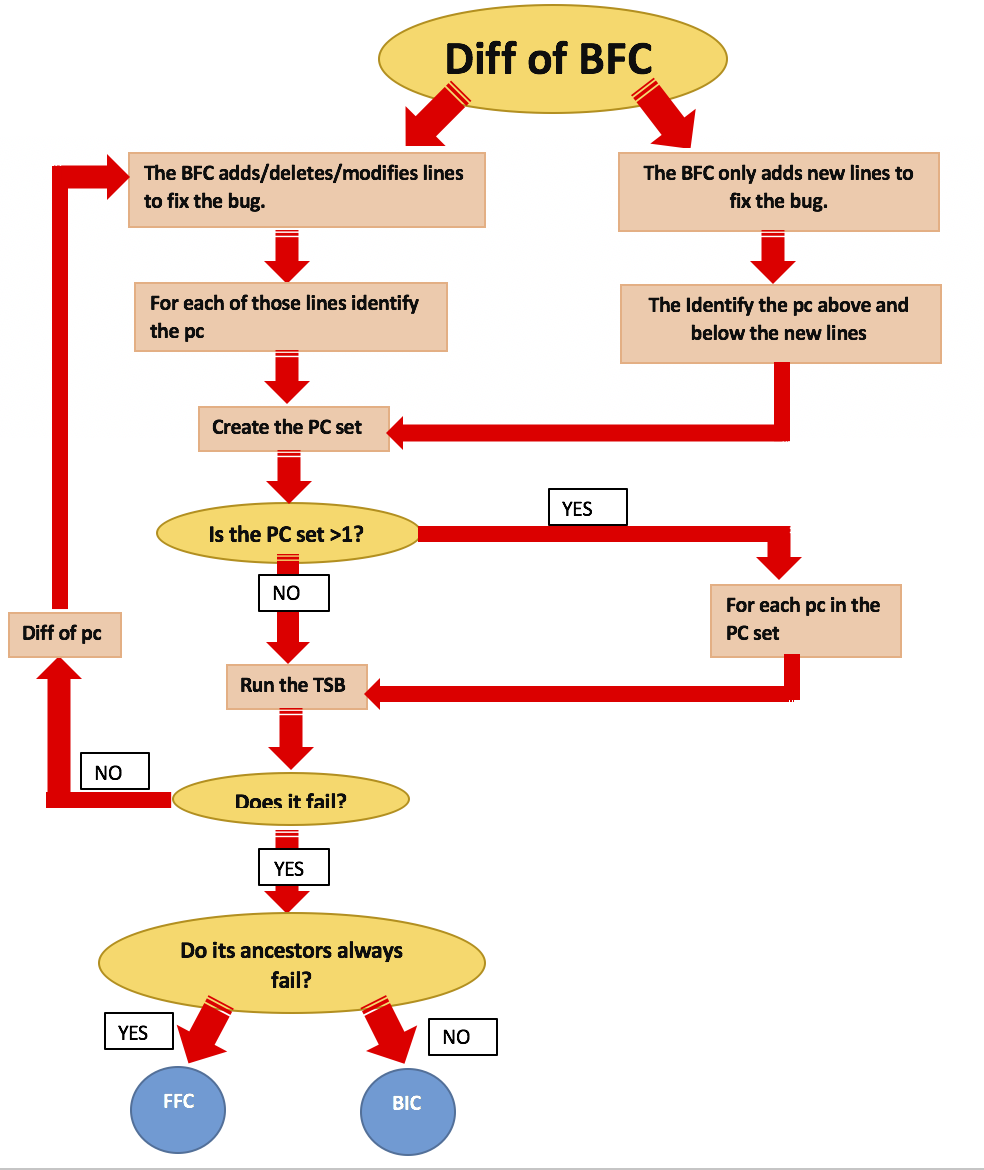
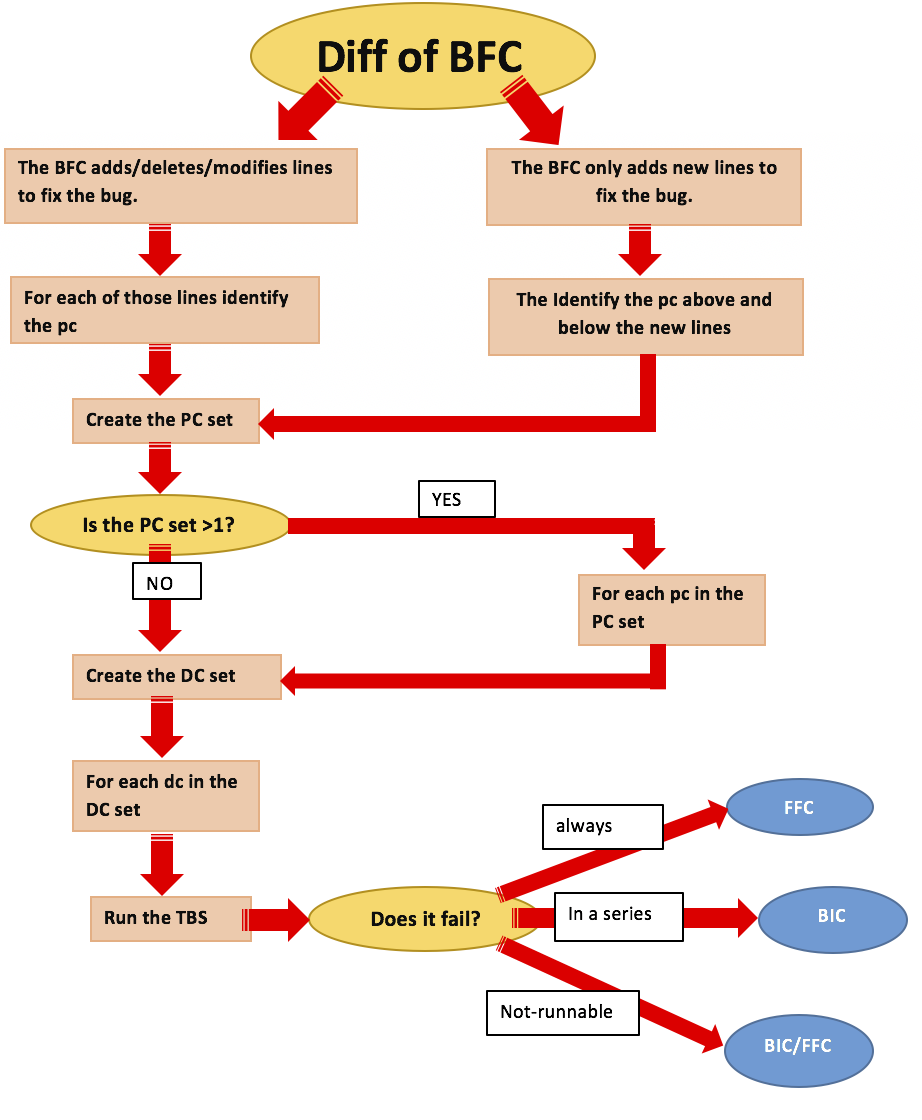
Changes in chapter 5

diff --git a/memoria.tex b/memoria.tex
@@ -175,26 +175,16 @@ for their patience and support }
 %\addcontentsline{toc}{chapter}{Agradecimientos} % si queremos que aparezca en el ?ndice
 \markboth{ACKNOWLEDGEMENTS}{ACKNOWLEDGEMENTS} % encabezado
 
-This thesis is the result of three years of work, in which I have met incredible people from all arround the world that have been involved and have influenced me in somehow. Thus, I apologize in advance whether I forgot to mention someone important.
+This thesis is the result of three years of work where I have met incredible people from all around the world. And they have influenced me in somehow. Thus, I apologize in advance whether I forgot to mention someone important, but if we have met and talked, you are also a part of this. I do not even know how to start or how I should start, but let's try ...  
 
-First of all, THANK YOU Jes\'us, Gregorio! I
+First of all, I would like to start by thanking my supervisors Jes\'us and Gregorio. Both are excellent sources of knowledge, as well as great professors, and even better, great people. I'm so glad to have been their Ph.D. student during these years. I always will be grateful for the opportunity that they gave me. They showed me what to be a researcher means, the best and the worst things. I had the opportunity to learn from their passion, ideas, and professionalism. Their continuous support during my thesis has been a valuable part in my Ph.D., and their advice to assist to conferences and make my own network has been a big lesson. They gave me a lot of facilities to continue growing, so I would like to say thank you again. After two summer stays in Canada and one year visiting the Netherlands, finally, you get rid of me :)  
+Special mention to Alicia and Dorealda they are always ready to help. Also, special mention for all the Bitergians, they have made my daily work more orange and funny, and in times of mining more easy with their marvellous tools (advertising!) 
 
-Thank you to the Bitergia People,
+From a more personal side, I would also like to say some words in Spanish, it will be easy for my family to understand. Me gustar\'ia das las gracias sobre todo a mis padres, su entendimiento y apoyado constante ha sido incondicional, durante los \'ultimos a\~nos hemos aprendido a vivir separados con las ventajas y desventajas que eso conlleva, pero sin embargo en los d\'ias mas importantes siempre han sabido demostrarme y hacerme llegar su apoyo, al igual que siempre me han sabido enviar fuerzas en los d\'ias m\'as dificiles. De la misma manera, tambi\'en me gustar\'ia dar las gracias a mis abuelos, a pesar de que el t\'ermino Doctorado les suene un poco abstracto siempre han sabido defender lo que hago muy bien, aunque unas veces mas acertadas que otras. Tambi\'en quiero agradecer a mi hermano, y todos mis amigos todo su apoyo, entender la vida de un estudiante de doctorado no es f\'acil, incluso trabajamos los fines de semana. Por \'utimo, gracias Casta! tienes talento para motivar a los dem\'as.
 
-Thank you to Alexander and Andy to host me during my last year, and to be so patienets with me.
+I also would like to thank Alexander Serebrenik and Andy Zaidman. They hosted me during my last year, giving me the opportunity to be part of their research groups, my experience in TuDelft and TuE has been personally and professionally enriching. They as well as Daniel M. German and Ali Mesbah have allowed me to improve my language, my research and communication skills, my knowledge and learn other cultures. Probably, these periods have been the best part in my Ph.D. I would like to thank them for their patience with me trying to understand what I said. During these periods out of my research lab I have the opportunity to meet so much Ph.D students and post-docs students I would like to mention Wesley Torres, Mauricio Verano, Danna Zhang, Andrea Soto, Saba and Quinn Hanam who were my lab mates and with I had a lot of fun.  
 
-Thank you to Daniel German, his attention and help was invaluable during my time with him.
-
-From a more personal side, I also would like to thank to my parents and grandparents. Their support and understanding has been also invaluable. It is hard to do a PhD, but it is probably more hard to know someone who is doing a PhD and try to have some time with him!.
-In any case, like everything in life, there are cycles and this is close to the end. Perhaps the beginning of an academic career, perhaps the beginning of a more industrial one. Who knows and who cares!. At least I finished the PhD!.
-
-
-It is usually difficult to write acknowledgements. Some people decide to write some paragraphs from their heart, while some others do not even write anything at all. I just write without thinking about that. Indeed this part of the dissertation will be probably the most read at all, which is also quite fun after almost six years of work, where I have procrastinated a lot, but worked a bit more.
-Probably some people will tell me that I forgot someone important, and I apologize in advance for this, but if you were part of this, you know that I actually know that!. I have met incredible people during this time. First of all my advisors: s and Gregorio. Without them, this dissertation would have been impossible at all. This is of course extensible to all of the people that I have met in LibreSoft like the old guys: Santi, Luis, Andradas, Isra, Teo, Juanjo, Acs or Kal and the not-so-old-guys like Alicia, Gato, Roca, Felipe, Olmedo, Santi (another one!), Pedro or Jorge.
-I would like to specially mention the infinite knowledge that I have acquired thanks to the research stays that I have done abroad. Those have allowed me to improve in several ways: language, research, knowledge and culture. I really think that this is probably the best part of the PhD process. Special thanks to Andrea Capiluppi, Cornelia Boldyreff, Tom Mens and Juan C.  Ramil. Their attention and help was invaluable during my time with them.
-From a more personal side, I want to thank to my parents, brother and Laura. Their support and understanding has been also invaluable. It is hard to do a PhD, but it is probably more hard to know someone who is doing a PhD and try to have some time with him!.
-In any case, like everything in life, there are cycles and this is close to the end. Perhaps the beginning of an academic career, perhaps the beginning of a more industrial one. Who knows and who cares!. At least I finished the PhD!.
-Thank you guys ;).
+This last paragraph is to summarize my experience. I do not have any clue what is going to occur after finishing my Ph.D. One of the lessons that I learn is that the academic life is very difficult, you have to be able to handle stress, deadlines, proposals, students, family, friends, and of course, never give up. But, it also is really challenging and exciting, you start building an academic family with whom share ideas, research works, projects, and travels. In the academia, you are continuously learning and teaching others your work and I like this part. I don't know if my future would be as a professor but, in this case, I'll always remember the lessons and talks that Gregorio give me, I've had the best role models to follow.
 
 %%%%%%%%%%%%%%%%%%%%%%%%%%%%%%%%%%%%%%%%%%%%%%%%%%%%%%%%%%%%%%%%%%%%%%%%%%%%%%%%
 %%%% Resumen
@@ -1698,7 +1688,7 @@ Table~\ref{tableSZZimproved} shows how many publications have used improvements 
 \chapter{The Theory of Bug Introduction}
 \label{chap:Theory}
 
-The proper understanding of bug introduction process is an essential part of any research works based on identifying the seed of a bug, by studying the changes in the code that fixed a bug, researchers are ables to carry out multiple researchers in other disciplines. For example, in order to predict future bugs researchers should identify how previous bugs were inserted and extract some characteristics from them that will be applied to the bug prediction models; to classify bugs researchers should understand what a bug is and how it was introduced in order to build a classification model; to detect bugs researchers should learn from previous bugs patterns to develop bug detection algorithms. But, a common practice today makes that the bug introduction process only depends on static metadata from the previous changes in the modified lines to fix the bug, (i.e, developer experience, lines of code inserted in the commit, type of changes, etc.). When in fact, there is necessary to keep in mind that the software evolves, it is continuously evolving, thereby clean code today maybe start to become buggy tomorrow due to the dependencies and requirements of the software. It may occur that other changes in the code or third-parties are affecting that lines, thus understanding the introduction of bugs form a static point of view may lead to problems in the results and it make sense to think that the deep knowledge of when and how a bug is inserted make the state-of-the-art techniques more or less accurate. %many approaches are built upon the assumption that ``a given bug was introduced by the lines of code that were modified to fix it", or variations of it. 
+The proper understanding of bug introduction process is an essential part of any research work which lies in the identification of the seed of a bug. The study of the changes in a bug-fixing commit to locate the origin of a bug is the base of researchers to carry out research studies in other disciplines of Software Engineering. For example, researchers should identify where previous bugs were inserted and obtain their characteristics to build models that can predict future bugs. Also, researchers should define and understand what a bug is and, how it was introduced into the source code before building classification models. To detect bugs, researchers should develop algorithms based on the learning from previous bugs patterns. However, to identify the bug-introducing change researchers rely on a common practice that only analyzes static metadata retrieved from previous changes to the modified lines in a bug-fixing commit (i.e, developer experience, lines of code inserted, type of changes, etc.). When in fact, it is necessary to keep in mind that the software evolves. It is continuously evolving thereby, clean code today maybe start to become buggy tomorrow due to the dependencies and requirements of the software. It may occur that other changes in the code or third-parties are affecting that lines, thus understanding the introduction of bugs form a static point of view may lead to problems in the results and it makes sense to think that the deep knowledge of when and how a bug is inserted make the state-of-the-art techniques more or less accurate. %many approaches are built upon the assumption that ``a given bug was introduced by the lines of code that were modified to fix it", or variations of it. 
 
 There are two primary moments that should be understood and distinguished when analyzing the origin of a bug. The bug manifestation moment and the bug introduction moment, they are different but currently there not exist a clear distinction between them in the software research literature on bugs. The limited knowledge of when the bug was inserted into the source code makes difficult to distinguish between these moments, and as a consequence, the researchers cannot be sure whether the line(s) identified after applying these approaches inserted the bug in the same moment of inserting the lines, or this line only manifested the bug because other reasons. Furthermore, the lack of a meaningful model to validate these algorithms as well as the lack of definition of what we want to validate, cause that researchers cannot calculate what a false positive or true positive is since they are not sure if the line was buggy or clean at the moment of their insertion.
 
@@ -1878,8 +1868,13 @@ From an objective point of view, it is not important \emph{WHEN} the bug was ins
 %Some people may ask why CVS or git is relevant when we are using the approaches to find the BIC and the explanation is that some approaches bore to be use in SVN because of the branches are explicitly created, but this is not the case with git. A branch in git is only a pointer to some commit which can  move causing that we lose the previous states completely. In other words, as we explain before git does not keep a relationship of the changes setting in time, thus the approaches that use temporally windows to remove false positives or have faith that the lineal vision precedence is setting by dates are not suitable in git. Moreover, as we have explained before, it is not fair to blame changes as the BIC when in fact they are not the real cause of the bug, so to be more accurate in the results and can learn from the history of the projects taking into account all the factors around, we have proposed to find the \FFC instead of the BIC and, furthermore we must understand that this \FFC has dependencies which help to comprehend the origin of the bug. 
 
 
-\section{First Failing Change and Bug Introducing Change:}
-In order to find out the Bug-introducing change with the maximum accuracy it is recommended do it manually by tracking back each line of the source code of all changes until find the \emph{moment} where it was inserted and the \emph{context} that explains the cause of the failure, or ensure that there is no \BIC thus, there only will be the first failing change. Theoretically and under the optimal conditions, this process can be fully automatic relying on the Test Signalling a Bug (\TSB) which returns \emph{True} whether the test is passed and \emph{False} whether the test is not passed in the analyzed snapshots of the project. Despite the high complexity of automatize this idea, we believe that an easy way to find the \BIC or \FFC is looking for the first snapshot where the \TSB fails, in that snapshot lies the commit that is the perfect candidate to be the \BIC.
+\section{How to Find the Bug Introducing Change and the First Failing Change:}
+In order to find out the Bug-Introducing Change with the maximum accuracy it is recommended do it manually by tracking back each line of the source code of all changes until find the \emph{moment} where the bug was inserted. To ensure that at this moment the bug was inserted, it is necessary to use the information from code review system and version control system. If according to this information, the commit inserted the line(s) containing the bug at this moment, this change is the \BIC. On the contrary, if the information gathered form these systems explains that there was a change in the \emph{environment or context} that caused the failure, there is not a \BIC, and in this case the change is the First-Failing Change. 
+
+Theoretically and under the optimal conditions, this process can be fully automatic relying on the Test Signalling a Bug (\TSB) which returns \emph{True} whether the test is passed and \emph{False} whether the test is not passed in the analyzed snapshots of the project. Despite the high complexity of automatize this idea, we believe that an easy way to find the \BIC or \FFC in this model, is looking manually for the first snapshot where the \TSB fails. This snapshot contains the commit that is the perfect candidate to be the \BIC or the \FFC.
+
+This model focuses in the cases when a \BIC for a BFC can be found or the cases when it is sure that a \BIC for a BFC does not exist. To show how the model works, the definitions of \BIC and BFC based on the existence of a \TSB are applied. The \TSB is applied in all the snapshots of the lineal vision precedence of a \BFC to identifying whether there is a Bug-Introducing Commit. Considering that the \TSB  has coverage of 100\% and that it can run forever in the past, the proposed model is able to find out the \BIC or the \FFC of a bug report by analyzing the changes that fixed the bug. This \TSB will be passed into all the descendent commit set of the lines modified in the bug-fixing commit. Thus when the \TSB test is passed to all the snapshots, it looks for the snapshot that fails; if found, the model will consider it as a candidate for the \BIC. %depending on how the \TSB fails.  %Furthermore, we will be sure if such \FFC might be the \BIC by using some heuristics that check that the line(s) inserted by this commit was (were) buggy, otherwise it cannot be considered as the $BIC$.
+
 
 %For instance, a similar notion to locate the \FFC would be to use the \emph{Oracle} as a conceptual idea, which is used in testing to determine whether the result of executing a program using a test is correct~\cite{staats2011programs}. Therefore we can take this concept to find the \FFC asking to the \emph{Oracle} whether after a specific change the result of the program is correct. The oracle is only a part of specifications related to the expected output (when it exists) and, contains information about the input ranges, about non-functional properties, etc. As example, a test suite will be a specification, that contains test cases, which themselves contain assertions (oracles).
 
@@ -1894,16 +1889,25 @@ In order to find out the Bug-introducing change with the maximum accuracy it is 
 %An special case is when the test fails in all the sequence up to the first snapshot with a given environment (eg, external APIs, etc.), but passes in all the sequence snapshots up to the first snapshot with a different environment (eg, the current environment). That would be an indicator of the bug being due to changes in the environment, not in the code. Of course, we need to define environment.
 %}
 
-Figure~\ref{fig:testrecursive} shows how apply the hypothetical test into the genealogy tree in order to identify the Bug-Introducing Commit. Considering that we have a \TSB with 100\% of coverage and it that can be run forever in the past, the proposed model can find out the \BIC or the \FFC of a bug report by analyzing the changes in the bug-fixing commit. The \TSB test is passed to all the snapshots (ancestral commit set) looking for the one that fails; if found, we will be consider it as a candidate for the \BIC. Furthermore, we will be sure if such \FFC might be the \BIC by using some heuristics that check that the line(s) inserted by this commit was (were) buggy, otherwise it cannot be considered as the $BIC$.
+%Figure~\ref{fig:testrecursive} naive shows how the outcomes of hypothetical test. 
 
-\begin{figure}[ht]
-\centering
-\includegraphics[width=200pt,height=170pt]{img/testrecursive.png}
-\caption{Omnipotent view of a test that automatically locates the \FFC}
-\label{fig:testrecursive}       % Give a unique label
-\end{figure}
+\subsection{Outcome of the TSB:}
+The outcome of the \TSB varies depending on each snapshot, there are three different outcomes:
+\begin{enumerate}
+	\item {\textbf{Pass}} : The function or feature tested is present in the snapshot an it works as the test expects according to the BFC, there is no \BIC.
+	\item {\textbf{Fails}} : The function or feature tested is present in the snapshot but it does not work as the test expects according to the BFC. This snapshot is consider as candidate to be the \BIC.
+	\item {\textbf{Not-Runnable}} : The function or feature tested is not present in the snapshot, thereby the test cannot run in this snapshot. 
+\end{enumerate}
 
-Figure~\ref{fig:snapshot1} shows how apply the hypothetical test into the genealogy tree in order to identify the Bug-Introducing Commit. Considering that we have a \TSB with 100\% of coverage and it that can be run forever in the past, the proposed model can find out the \BIC or the \FFC of a bug report by analyzing the changes in the bug-fixing commit. The \TSB test is passed to all the snapshots (ancestral commit set) looking for the one that fails; if found, we will be consider it as a candidate for the \BIC. Furthermore, we will be sure if such \FFC might be the \BIC by using some heuristics that check that the line(s) inserted by this commit was (were) buggy, otherwise it cannot be considered as the $BIC$.
+%\begin{figure}[ht]
+%\centering
+%\includegraphics[width=200pt,height=170pt]{img/testrecursive.png}
+%\caption{Omnipotent view of a test that automatically locates the \FFC}
+%\label{fig:testrecursive}       % Give a unique label
+%\end{figure}
+There are three different scenarios to illustrate how to apply the hypothetical test into a lineal vision of precedence of the \setBFC{i} in order to identify whether the Bug-Introducing Commit exists. In these scenarios it is considering that the \TSB have 100\% of coverage and it can run forever in the past. Thus, the \TSB is passed to all the snapshots (ancestral commit set) looking for the one that fails; if found, it will be consider it as a candidate for the \BIC. %Furthermore, we will be sure if this snapshot is the \BIC by using some heuristics that check that the line(s) inserted by this commit was (were) buggy, otherwise it cannot be considered as the $BIC$.
+
+Figure~\ref{fig:snapshot1} shows how apply the hypothetical test into the genealogy tree when there is a \BIC and the \TSB can be run in all the snapshots. To locate the \BIC, we pass the \TSB into all the snapshots of the descendent commit set, and the \BIS will be the first that fails (i-1b). We know that the \BIS is a \BIC because the snapshot before (i-2c) passes. 
 
 \begin{figure}[ht]
 \centering
@@ -1912,7 +1916,7 @@ Figure~\ref{fig:snapshot1} shows how apply the hypothetical test into the geneal
 \label{fig:snapshot1}       % Give a unique label
 \end{figure}
 
-Figure~\ref{fig:snapshot2} shows how apply the hypothetical test into the genealogy tree in order to identify the Bug-Introducing Commit. Considering that we have a \TSB with 100\% of coverage and it that can be run forever in the past, the proposed model can find out the \BIC or the \FFC of a bug report by analyzing the changes in the bug-fixing commit. The \TSB test is passed to all the snapshots (ancestral commit set) looking for the one that fails; if found, we will be consider it as a candidate for the \BIC. Furthermore, we will be sure if such \FFC might be the \BIC by using some heuristics that check that the line(s) inserted by this commit was (were) buggy, otherwise it cannot be considered as the $BIC$.
+Figure~\ref{fig:snapshot2} shows how apply the hypothetical test into the genealogy tree when there is a \BIC but the \TSB test cannot be run after some snapshot. This is because the tested function or feature is not present at that moment. Here, the first \BIS identified is the \BIC because when it introduced the function or feature tested it was buggy.
 
 \begin{figure}[ht]
 \centering
@@ -1921,44 +1925,44 @@ Figure~\ref{fig:snapshot2} shows how apply the hypothetical test into the geneal
 \label{fig:snapshot2}       % Give a unique label
 \end{figure}
 
+Figure~\ref{fig:snapshot3} shows how apply the hypothetical test into the genealogy tree when there is not a BIC and the \TSB can be run forever in the past. The \TSB always fails with the BFS environment the snapshots, but if we set up the older environment it will pass in the descendent snapshot. Thus the first \BIS before the \BFC will be the \FFC, there was not \BIC in the descendent commit set.
+\begin{figure}[ht]
+\centering
+\includegraphics[width=\columnwidth]{img/snapshot3.png}
+\caption{The Bug Introducing Snapshot is the the \FFC }
+\label{fig:snapshot3}       % Give a unique label
+\end{figure}
 
-Nevertheless to automatize this process seems to be tedious and complex, because all the external dependencies used in the project make more complicated to build an an isolate test to be run in each previous change. We still rely this can be possible thanks to studies such as the one performed by Bowes~\emph{et al.}, which provide a core list of testing principles focusing on different quality aspects other than effectiveness or coverage. For our research, the most interesting principle is the test (in)dependency which describes that a test should be able to run in any order and in isolation. In addition, the test should  not  rely  on other tests in anyway. Allowing practitioners to add new tests without keeping in mind dependencies or effects they might have on existing tests~\cite{bowes2017good}.
 
-
-\subsection{Classes of the bug introducing snaphot:}
-Depending on the nature of the test to find the bugs, there exists three different \FFC classes:
-
-\begin{enumerate}
+subsection{Criterion to apply to the test Signalling a Bug:}
+ \gema{Write some intro here.}
+ \begin{enumerate}
 	\item Undecidable \FFC : When we cannot find the \FFC. In this class, we will not find the \FFC between all the \ACSet{b} using the test, because the test may not be implemented due to some factors. Thus, the \FFC will be the first change that manifests the bug in the lineal vision precedence under analysis.
-	\item \FFC in external dependencies: When the bug is not caused by a change commited into the ancestral tree under analysis but, another external factors cause the failure such as: (1) There is a bug in the dependencies of the project; (2) There is a bug in API's used in the project. In this class, we will find the \FFC between all the \ACSet{b} using the test, but this \FFC is not the cause of the bug, this \FFC will be the first time that the malfunction manifests in my lineal vision precedence.
+	\item \FFC in external dependencies: When the bug is not caused by a change committed into the ancestral tree under analysis but, another external factors cause the failure such as: (1) There is a bug in the dependencies of the project; (2) There is a bug in API's used in the project. In this class, we will find the \FFC between all the \ACSet{b} using the test, but this \FFC is not the cause of the bug, this \FFC will be the first time that the malfunction manifests in my lineal vision precedence.
 	\item \FFC : When we can find the \FFC between all the \ACSet{b} using the test and furthermore, this \FFC is the cause of the bug.
 \end{enumerate}
 
-\subsection{Criterion to apply to the test Signalling a Bug:}
- \gema{Write some intro here.}
- \begin{enumerate}
-	\item Not applicable : In some cases the functionality under testing is not implemented yet, thus it make no sense to pass the test before that moment, and perforce the test has to be previously to such moment, where the \FFC will be the first change to fail from the moment in which the functionality is implemented.
-	\item It not fails : The functionality under testing is not failing, thus we should continue navigating back into the changes.
-	\item It fails : The functionality under testing is failing, we have found the \FFC and such change might be the BIC or not.
-\end{enumerate}
-
-Therefore the \FFC is the first change that manifests the bug having into account that might be some point where the test cannot be apply, thus we should be aware that in some cases the test will have a certain period of life.
-\gema{About the tests not being runnable in a certain snapshot:
-I?m starting to think that the result of a test should not be boolean, but in fact could be return three values: Pass, Fail or Not-Runnable. A perfect hypothetical test would be runnabble for all snapshots of the code, and for it only (Pass, Fail) would be needed as possible outputs. But maybe that?s ?too perfect? to be understandable, and we could include the notion of ?the test cannot run in this snapshot because the feature to test is not present?. I still tend to think that this makes the model more complicated than needed, and that?s why I didn?t introduce it in the definitions above. But we could include this as a refinement of the model to make it more usable in practice.
-}
+Nevertheless to automatize this process seems to be tedious and complex, because all the external dependencies used in the project make more complicated to build an isolate test to be run in each previous change. However, we still rely this can be possible thanks to studies such as the one performed by Bowes~\emph{et al.}, which provide a core list of testing principles focusing on different quality aspects other than effectiveness or coverage. For our research, the most interesting principle is the test (in)dependency which describes that a test should be able to run in any order and in isolation. In addition, the test should  not  rely  on other tests in anyway. Allowing practitioners to add new tests without keeping in mind dependencies or effects they might have on existing tests~\cite{bowes2017good}.
 
 \section{Algorithm to Find the BIC and the FFC:}
-The algorithm to find the \BIC and the \FFC is based on the next decision graph.
+Figure~\ref{fig:algoritmo} presents the decision tree in order find the \BIC ,whether it exists, and the \FFC. This decision tree is implemented in our model and includes the current shortcomings in the state-of-the-art approaches based on track back the lines that have been modified in the \BFC in order to find the \BIC.
 
-Figure~\ref{fig:algoritmo} 
+ \begin{enumerate}
+	\item {\textbf{Lack of guidelines when SZZ identifies more than one pc}}: The decision tree can distinguish when there are more than one previous commit and what we should do to identify the \BIC or the \FFC.
+	\item {\textbf{Only new added lines in the BFC}}: The decision tree can distinguish when there are only new lines added in the \BFC. In this case, the PC Set is computed by identifying the pc of the lines surrounding the new additions. 
+	\item {\textbf{Modifications are not related with the root cause of the bug}}: The \TSB does not test the functions or features that are not related with the root cause of the bug.
+	\item{\textbf{ More than one issue is addressed by the BFC}}: The \TSB only implement the test for the functions or features that caused the bug.
+	\item {\textbf{Lines correct at the time of their insertion}}: The \TSB always fails with the BFS environment in the snapshots, identifying the \FFC.
+	\item {\textbf{Dormant Bugs}}: The \TSB will identify the first snapshot in which the test fails, identifying the \BIC.
+
+\end{enumerate}
 
 \begin{figure}[ht]
 \centering
 \includegraphics[width=\columnwidth]{img/algoritmo.png}
 \caption{Decision tree }
-\label{fig:algoritmo}       % Give a unique label
+\label{fig:Decision tree to identify the BIC and the FFC}       % Give a unique label
 \end{figure}
-\gema{Useful information}
 
 %To be more precise: we consider bugs that are considered bugs at the moment of bug fixing. There is a (hypotetical) test that fails right before the commit fixing the bug, and does not fail right after the commit fixing the bug. In the case of Elasticsearch, we rely (to a great extent) in developers labelling it as bug. In the case of OpenStack, it is more that Gema did an analysis, using info that developers annotated in the bug report.
 
@@ -1981,7 +1985,6 @@ Figure~\ref{fig:algoritmo}
 %I wouldn't focus "in the previous commit". We need to find the BIC, be it the previous commit or not. Once we have BICs identified for all BFC, we can compare with SZZ (where the previous commit is relevant), or with other algorithms.
 
 %\gema{(Dada esta situacion de incertidumbre, nosotros proponemos un modelo donde enmarcarlo todo)}
-
 
 %%%%%%%%%%%%%%%%%%%%%%%%%%%%%%%%%%%%%%%%%%%%%%%%%%%%%%%%%%%%%%%%%%%%%%%%%%%%%%%%
 %%%%%%%%%%%%%%%%%%%%%%%%%%%%%%%%%%%%%%%%%%%%%%%%%%%%%%%%%%%%%%%%%%%%%%%%%%%%%%%%
@@ -2447,9 +2450,21 @@ Kim y Whitehead analizaron los proyectos ArgoUML y PostgresSQL para calcular el 
 Nguyen y Fabio Massacci realizaron un estudio para validad la confiabilidad de los datos de la versi\'on vulnerable de NVD. Los autores usaron el algoritmo SZZ para identificar el c\'odigo vulnerable responsable de la vulnerabilidad~\cite{nguyen2013reliability}. Bavota~\textit{et al.} estudiaron empiricamente en qu\'e medida las actividades de refactorizaci\'on itrodujeron errores en tres sistemas que usaban Java como lenguaje de programaci\'on~\cite{bavota2012does}. Kamei \emph{et al.} utilizaron el algoritmo SZZ para revisar los modelos de predicci\'on de errores en la literatura~\cite{kamei2010revisiting}. Fukushima \emph{et al.} evalu\'o emp\'iricamente el rendimiento de los modelos de predicci\'on de errores basados en el concepto Just-In-Time~\cite{fukushima2014empirical}.
 
 \section{Objetivos/Problema}
-El problema principal que trata esta tesis es ....
+El objetivo principal de esta tesis es desarrollar un modelo teorico que ayude a identificar unequivocamente el momento en el que una linea erronea es introducida en el codigo fuente de un programa a partir del arreglo de un fallo que ha sido reportado. Para ello, esta tesis realiza un analisis minucioso sobre las tecnicas actuales usadas en la localizacion de un error detallando el problema actual existente que impide que estas tecnicas identifiquen correctamente el momento en el que el error fue introducido en el codigo fuente. En concreto, esta tesis cuantifica las limitaciones encontradas en el algoritmo SZZ. Desde hace mas de diez anos, este algoritmo es el mas utilizado para encontrar el origen del error a pasar de que tanto investigadores como desarrolladores y profesionales son conscientes de sus limitaciones, sin embargo, la falta de otro modelo que explique como encontrar el origen de un error asi como la definicion actual de lo que significa un fallo, causan que todos los estudios donde se analiza el momento en el que un error es introducido empiecen con la misma premisa ``Las lineas modificadas para arreglar son potencialmente culpables de introducir la falla en el sistema ". Sin embargo, esta premisa trata a los errores como una variable estatica que permanece en el sistema desde que se introduce, cuando en realidad los errores no deben ser estudiados como variables estaticas ya que factores externos como cambios el las APIs o la evolucion interna del sistema causan que una linea correcta en un un momneto determinado empiece a manifestar el error en un momento posterior.   
 
-El objetivo principal de esta tesis reside en el estudio detallado sobre como se introducen los errores no intencionados en el c\'odigo fuente. Este estudio pretende por un lado, diferenciar dos momentos importantes en la teoria de inserci\'on de errores que su no diferenciacion ha afectado en gran medida a la correcta identificaci\'on sobre como se han introducido realmente los errores en el c\'odigo. Por otro lado, la tesis pretende crear un marco de comparaci\'on en el cual todas las t\'ecnicas empleadas en la localizaci\'on de los errores puedan ser comparadas, teniedo en cuenta que nuestro modelo te\'orico descriptvo presenta la verdad absoluta sobre el error.
+El modelo teorico propuesto en esta tesis define claramente que es un error y como podemos encontrar su semilla en el codigo. El modelo se basa en la hipotetica idea de 
+Por tanto, este modelo permite definir un estandar de comparacion de cambios que introducen errores (\BIC)
+
+The main goal is to define a model for what are bug-introducing commits, and how they are related to bug-fixing commits. This model should allow to define the ``gold standard" of which commits in certain repo are BICs, and how to find a set of BICs corresponding to a set of BFCs. The model includes precise definitions of BFC and BIC based on TSBs, that are assumed to be possible to define. The main contribution of this part is to show how SZZ-like algorithms can be evaluated in a comprehensive and ``right" way, which is something missing in the current literature. This way we could really compare the effectiveness of SZZ-like algorithms.
+
+To show the model working, we find a set of BFCs in two projects, and find out (manually) their BICs, or ensure that there is no BIC at all. For this, we apply our definitions of BIC and BFC based on the existence of a TSB, that we could declare in English (so that we can be more precise if we agree or not on which one is the BIC for a BFC). If we cannot find the BIC (or agree on it, or be sure that there is no BIC), we could consider excluding the corresponding BFC from the study, since we're focused in the cases when BIC can be found or we're sure it does not exist (we can see through an Aleph). The main contribution of this part is showing that in a real case, the ``gold standard" idea can be put in practice, at least to some extent (I hope to a large fraction of the BFCs in our dataset, but that's what we need to explore further, since the preliminary exploration didn't work that way).
+
+To make the paper more valuable, we compare SZZ with the ``gold standard", and also SZZ-token (SZZ, but considering tokens, as dmg does it, instead of lines), and/or other SZZ variants. The main contribution of this part is to show how really to compute true/false positives/negatives for an algorithm, since we can compare with our gold standard in our two petty cases.
+
+
+
+
+El objetivo principal de esta tesis reside en el estudio detallado sobre como se introducen los errores no intencionados en el c\'odigo fuente. Este estudio pretende por un lado, diferenciar dos momentos importantes en la teor\'ia de inserci\'on de errores que su no diferenciacion ha afectado en gran medida a la correcta identificaci\'on sobre como se han introducido realmente los errores en el c\'odigo. Por otro lado, la tesis pretende crear un marco de comparaci\'on en el cual todas las t\'ecnicas empleadas en la localizaci\'on de los errores puedan ser comparadas, teniendo en cuenta que nuestro modelo te\'orico descriptivo presenta la verdad absoluta sobre el error.
 
 A continuaci\'on se puede encontrar un listado de los objetivos principales de la tesis:
 
@@ -2476,8 +2491,6 @@ Para ello, la metodolog\'ia general se divide en los siguientes pasos:
 
 This section describes the data extraction and analysis process that we follow to answer the research questions. The input of this analysis is a set of tickets that describe different bugs. First, we describe the criteria and categories used for classifying the bug depending of its cause. And then we describe the process and criteria that we use to identifying the First Failing Commit and the Bug-Introduction Commit.
 
-\subsection{Classifying the Bug Reports:}
-We classify bugs according to the following criteria (i) the bug description, the commit message or comments from developers reveal or indicate  that the bug was not inserted within the introduction moment of the lines that are failing now (ii) when there is lack of information, we assume that the lines were buggy in the moment of their instertion. Thus, the classification depends of the nature of the root cause: \emph{Buggy} lines at the moment of their insertion or \emph{Clean} lines at the moment of their insertion, definitions are showed in Table~\ref{tab:bugtable}. For the \emph{Buggy} lines we have follow prior bug characterization studies~\cite{chen2014empirical,tan2014bug} and we have borrow the categories, with modification, in order to classify the cause of the bug as: \emph{Memory} or \emph{Semantic}. We have rejected the concurrence category from previous studies since in our dataset there is not evidence that the bug was caused by concurrence errors, furthermorer, we also have join categories in order to make a general category because it is more convenient for our purpose.\gema{It is more conveniente because we only have 120 tickets and it does not make sense to do multiple sub-categories}
 
 % According to \emph{Clean} lines, bugs can be classified into two disjoint categories \emph{Enviromental} and \emph{Software Maintenace} bugs. Memory, Semantic, Enviromental, and Software Maintenance bugs are further classified into sub-categories as shown in Table~\ref{tab:buggytable} and Table~\ref{tab:cleantable}.
 % 
